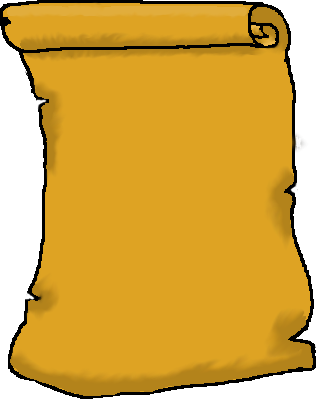
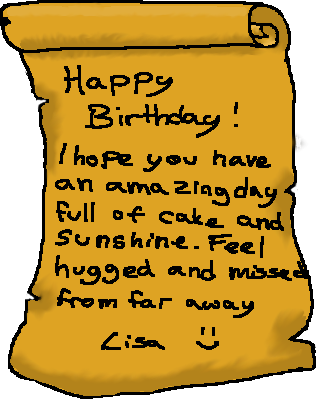
added message and fixed eyes

diff --git a/js/main.js b/js/main.js
@@ -42,9 +42,16 @@ $( document ).ready(function() {
 
         if ( event.which == 13 ){//right
             if (scroll_locked){
-                scroll_rolled=false;
+                if (scroll_rolled){
+                    scroll_rolled=false;
+                }else{
+                    scroll_rolled=true;
+                }
+
                 textShow=false;
+                
             }
+            
         }
         // Boundaries
         charX=charX+horzK;
@@ -197,8 +204,8 @@ $( document ).ready(function() {
         // context.drawImage(images["left_wing"], x, y+163);
         // context.drawImage(images["right_wing"], x+280, y+163);
 
-        drawEllipse(x + 80, y +100, 20, curEyeHeight); // Left Eye
-        drawEllipse(x + 150, y +100, 20, curEyeHeight); // Right Eye
+        drawEllipse(x + 75, y +95, 20, curEyeHeight); // Left Eye
+        drawEllipse(x + 145, y +95  , 20, curEyeHeight); // Right Eye
         
 
         drawWing(150,150,x+37,y+165,wingpos,0); //left
